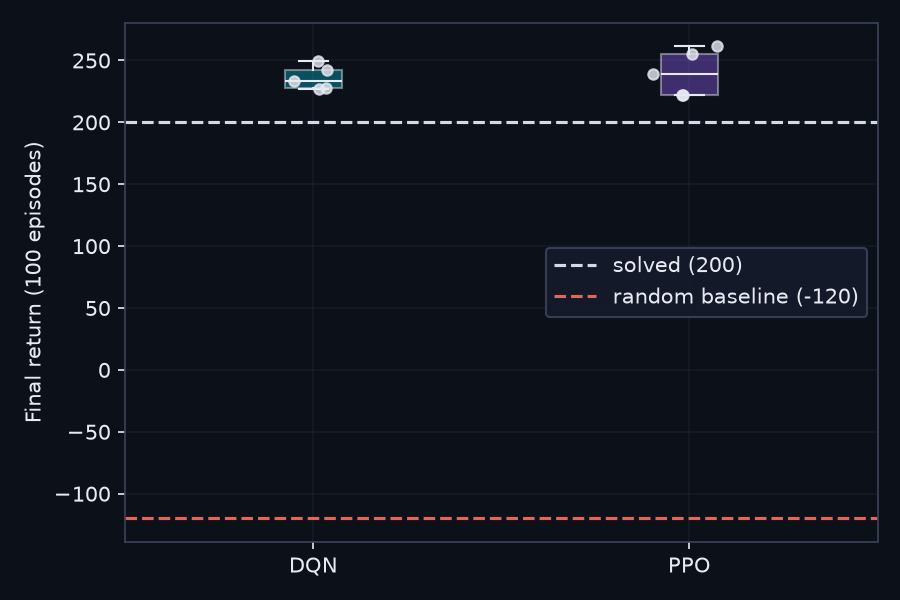
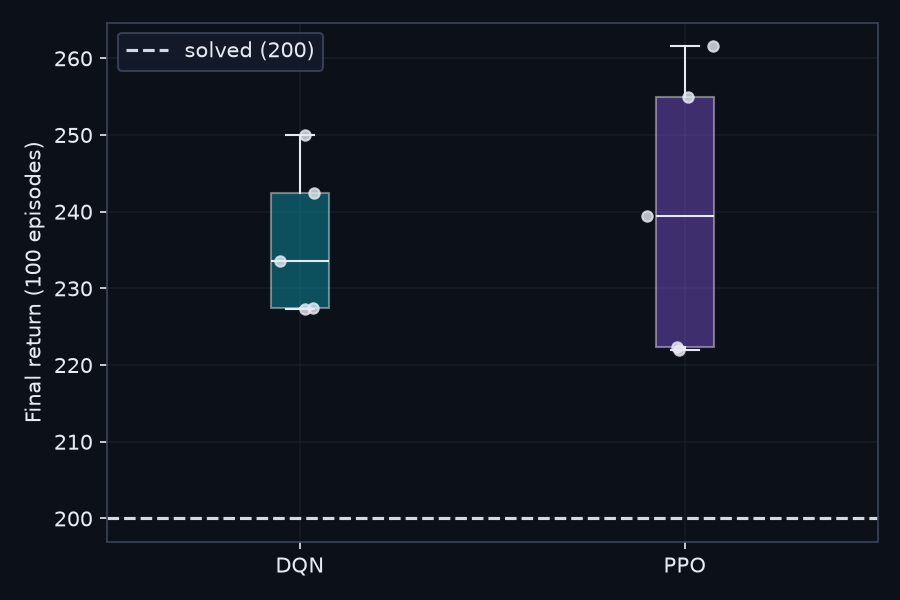
Add script to generate RESULTS figures for poster
- Introduced `plot_results_figures.py` to create two key figures:
  - `comparison_boxplot`: Boxplot of best model rewards per seed for each algorithm.
  - `gap_slope`: Line plot showing best vs final model performance per seed.
- The script reads metrics from CSV files and evaluates final models.
- Outputs figures in PNG and PDF formats for documentation.

diff --git a/scripts/plot_results_figures.py b/scripts/plot_results_figures.py
@@ -1,0 +1,65 @@
+"""Erzeugt die beiden RESULTS-Abbildungen fürs Poster nach docs/figures/.
+
+- `comparison_boxplot` — 5 Seeds je Algorithmus als Boxplot mit Einzelpunkten.
+  Zeigt genau die Daten, über die der Signifikanztest rechnet (bestes Modell,
+  je 100 Episoden). Ohne Zufalls-Baseline: die würde die y-Achse auf 400 Punkte
+  aufziehen und die Boxen unlesbar quetschen — die Lernkurve daneben zeigt den
+  Zufalls-Boden ohnehin.
+- `gap_slope` — je Seed eine Linie best → final. Trägt Seed-Streuung,
+  Überlappung und Trainingsverfall in einem Bild.
+
+`best` kommt aus results/metrics/<algo>.csv (dieselbe Rechnung wie im Notebook:
+100 Episoden je Seed, Eval-Seed 10_000+s), `final` wird frisch ausgewertet.
+
+Aufruf:
+    uv run python -m scripts.plot_results_figures
+"""
+
+import numpy as np
+import pandas as pd
+
+from lunarlander import config, plots
+from lunarlander.agents import load_agent
+from lunarlander.evaluate import evaluate
+
+ALGOS = ["dqn", "ppo"]
+OUT = config.DOCS_DIR / "figures"
+
+
+def best_je_seed(algo: str) -> np.ndarray:
+    """Bestes Modell je Seed — die eingecheckten Poster-Zahlen."""
+    df = pd.read_csv(config.METRICS_DIR / f"{algo}.csv").sort_values("seed")
+    return df["mean_reward"].to_numpy()
+
+
+def final_je_seed(algo: str) -> np.ndarray:
+    """Finales Modell je Seed, wie im Notebook: 100 Episoden ab Eval-Seed 10_000+s."""
+    werte = []
+    for s in config.SEEDS:
+        m = load_agent(algo, config.MODELS_DIR / f"{algo}_seed{s}" / "final_model")
+        werte.append(evaluate(m, seed=10_000 + s, n_episodes=config.N_EVAL_EPISODES).mean())
+    return np.array(werte)
+
+
+def main() -> None:
+    OUT.mkdir(parents=True, exist_ok=True)
+    best = {a: best_je_seed(a) for a in ALGOS}
+    print("best je Seed (aus metrics/):")
+    for a in ALGOS:
+        print(f"  {a.upper()}: {np.round(best[a], 1)}  -> {best[a].mean():.1f} ± {best[a].std(ddof=1):.1f}")
+
+    print(f"\nfinal je Seed (je {config.N_EVAL_EPISODES} Episoden, dauert etwas)...")
+    final = {a: final_je_seed(a) for a in ALGOS}
+    for a in ALGOS:
+        print(f"  {a.upper()}: {np.round(final[a], 1)}  -> {final[a].mean():.1f} ± {final[a].std(ddof=1):.1f}"
+              f"   gelöst: {int((final[a] >= config.SOLVED_THRESHOLD).sum())}/{len(config.SEEDS)}")
+
+    # PNG für PowerPoint, PDF für den Druck — wie die übrigen Figuren.
+    for endung in ("png", "pdf"):
+        plots.comparison_plot(best, OUT / f"comparison_boxplot.{endung}", show_points=True)
+        plots.gap_slope_plot(best, final, OUT / f"gap_slope.{endung}")
+    print(f"\nGeschrieben: {OUT}/comparison_boxplot.{{png,pdf}} und gap_slope.{{png,pdf}}")
+
+
+if __name__ == "__main__":
+    main()

diff --git a/src/lunarlander/plots.py b/src/lunarlander/plots.py
@@ -190,6 +190,59 @@ def gap_plot(best_by_algo, final_by_algo, out_path):
     return out_path
 
 
+def gap_slope_plot(best_by_algo, final_by_algo, out_path):
+    """Slope-Chart: je Seed eine Linie vom besten zum finalen Modell.
+
+    Trägt drei Aussagen in einem Bild, die der Balken-Gap verliert: die Streuung
+    über die Seeds (die Startpunkte), die Überlappung der Algorithmen und den
+    Verfall bis Trainingsende (die Steigung). Die Paarung bleibt sichtbar — man
+    sieht, *welcher* Seed abstürzt, nicht nur den Mittelwert.
+
+    Args:
+        best_by_algo, final_by_algo: Dicts `{algo: array_je_seed}` — gleiche
+            Reihenfolge der Seeds in beiden, damit die Linien richtig paaren.
+        out_path: Ziel-PNG.
+
+    Returns:
+        Path der gespeicherten PNG.
+
+    Raises:
+        ValueError: wenn ein Algorithmus in best/final unterschiedlich viele Seeds hat.
+    """
+    out_path = Path(out_path)
+    labels = list(best_by_algo.keys())
+    for k in labels:
+        if len(np.asarray(best_by_algo[k])) != len(np.asarray(final_by_algo[k])):
+            raise ValueError(
+                f"{k}: best hat {len(np.asarray(best_by_algo[k]))} Seeds, "
+                f"final {len(np.asarray(final_by_algo[k]))} — je Seed eine Linie nötig.")
+
+    fig, ax = plt.subplots(figsize=(6, 4))
+    for i, (k, color) in enumerate(zip(labels, SERIES)):
+        best = np.asarray(best_by_algo[k], float)
+        final = np.asarray(final_by_algo[k], float)
+        # Zwei x-Positionen je Algorithmus, Gruppen nebeneinander.
+        x = np.array([i * 2.0, i * 2.0 + 1.0])
+        for b, f in zip(best, final):
+            ax.plot(x, [b, f], color=color, alpha=0.7, lw=1.5, marker="o",
+                    markersize=5, markeredgecolor=INK, markeredgewidth=0.5)
+        ax.plot(x, [best.mean(), final.mean()], color=color, lw=3.5, marker="o",
+                markersize=9, markeredgecolor=INK, label=f"{k.upper()} (mean)", zorder=3)
+
+    ax.axhline(200, ls="--", color=SOLVED, lw=1.5, label="solved (200)")
+    ax.set_xticks([i * 2.0 + j for i in range(len(labels)) for j in (0, 1)])
+    ax.set_xticklabels(["best", "final"] * len(labels))
+    for i, k in enumerate(labels):   # Algo-Name unter das jeweilige Paar
+        ax.text(i * 2.0 + 0.5, -0.12, k.upper(), transform=ax.get_xaxis_transform(),
+                ha="center", va="top", color=INK, fontweight="bold")
+    ax.set_ylabel("Mean return (100 episodes)")
+    ax.legend(loc="lower left")
+    fig.tight_layout()
+    fig.savefig(out_path)
+    plt.close(fig)
+    return out_path
+
+
 def _build_mean_runs(rewards_by_label):
     """Baut die Balkenfigur „Mittelwert über N Durchläufe" (ohne zu speichern).
 

diff --git a/tests/test_plots.py b/tests/test_plots.py
@@ -92,6 +92,20 @@ def test_gap_plot_saves(tmp_path):
     assert out.exists()
 
 
+def test_gap_slope_plot_saves(tmp_path):
+    best = {"dqn": np.array([227.0, 250.0, 242.0]), "ppo": np.array([255.0, 222.0, 262.0])}
+    final = {"dqn": np.array([95.0, 210.0, 150.0]), "ppo": np.array([240.0, 205.0, 250.0])}
+    out = plots.gap_slope_plot(best, final, tmp_path / "slope.png")
+    assert out.exists()
+
+
+def test_gap_slope_plot_rejects_mismatched_seed_counts(tmp_path):
+    # Je Seed eine Linie -> best und final müssen paarweise zusammenpassen.
+    with pytest.raises(ValueError):
+        plots.gap_slope_plot({"dqn": np.array([227.0, 250.0])},
+                             {"dqn": np.array([95.0])}, tmp_path / "slope2.png")
+
+
 def test_reward_histogram_saves(tmp_path):
     out = plots.reward_histogram(np.array([200.0, 210.0, 190.0, 205.0, 150.0]),
                                  tmp_path / "hist.png")